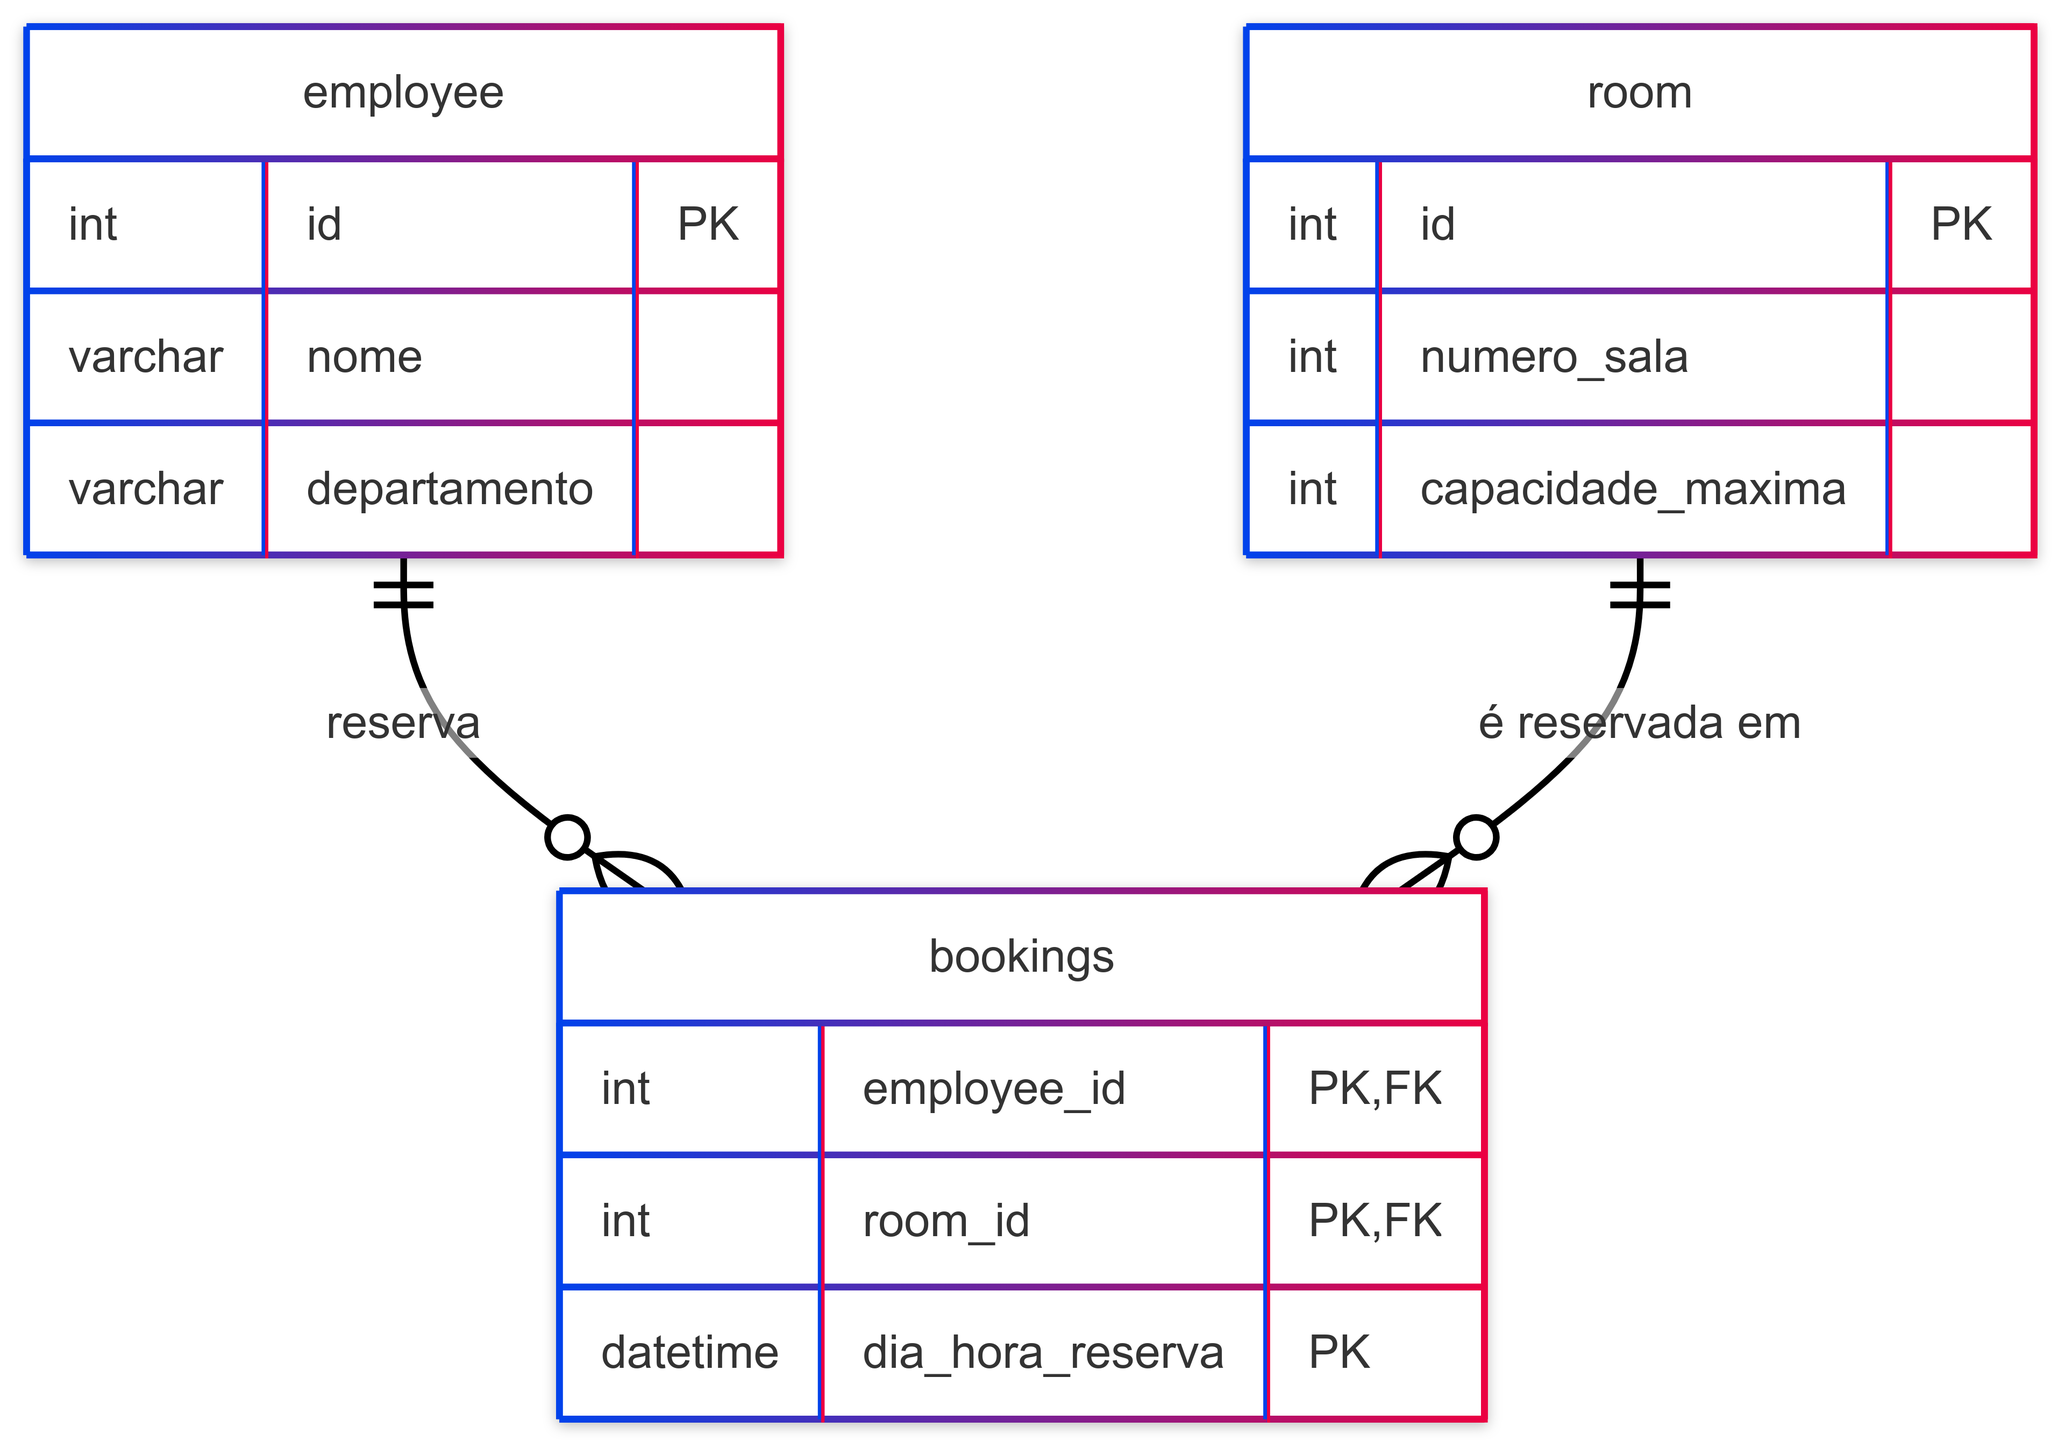
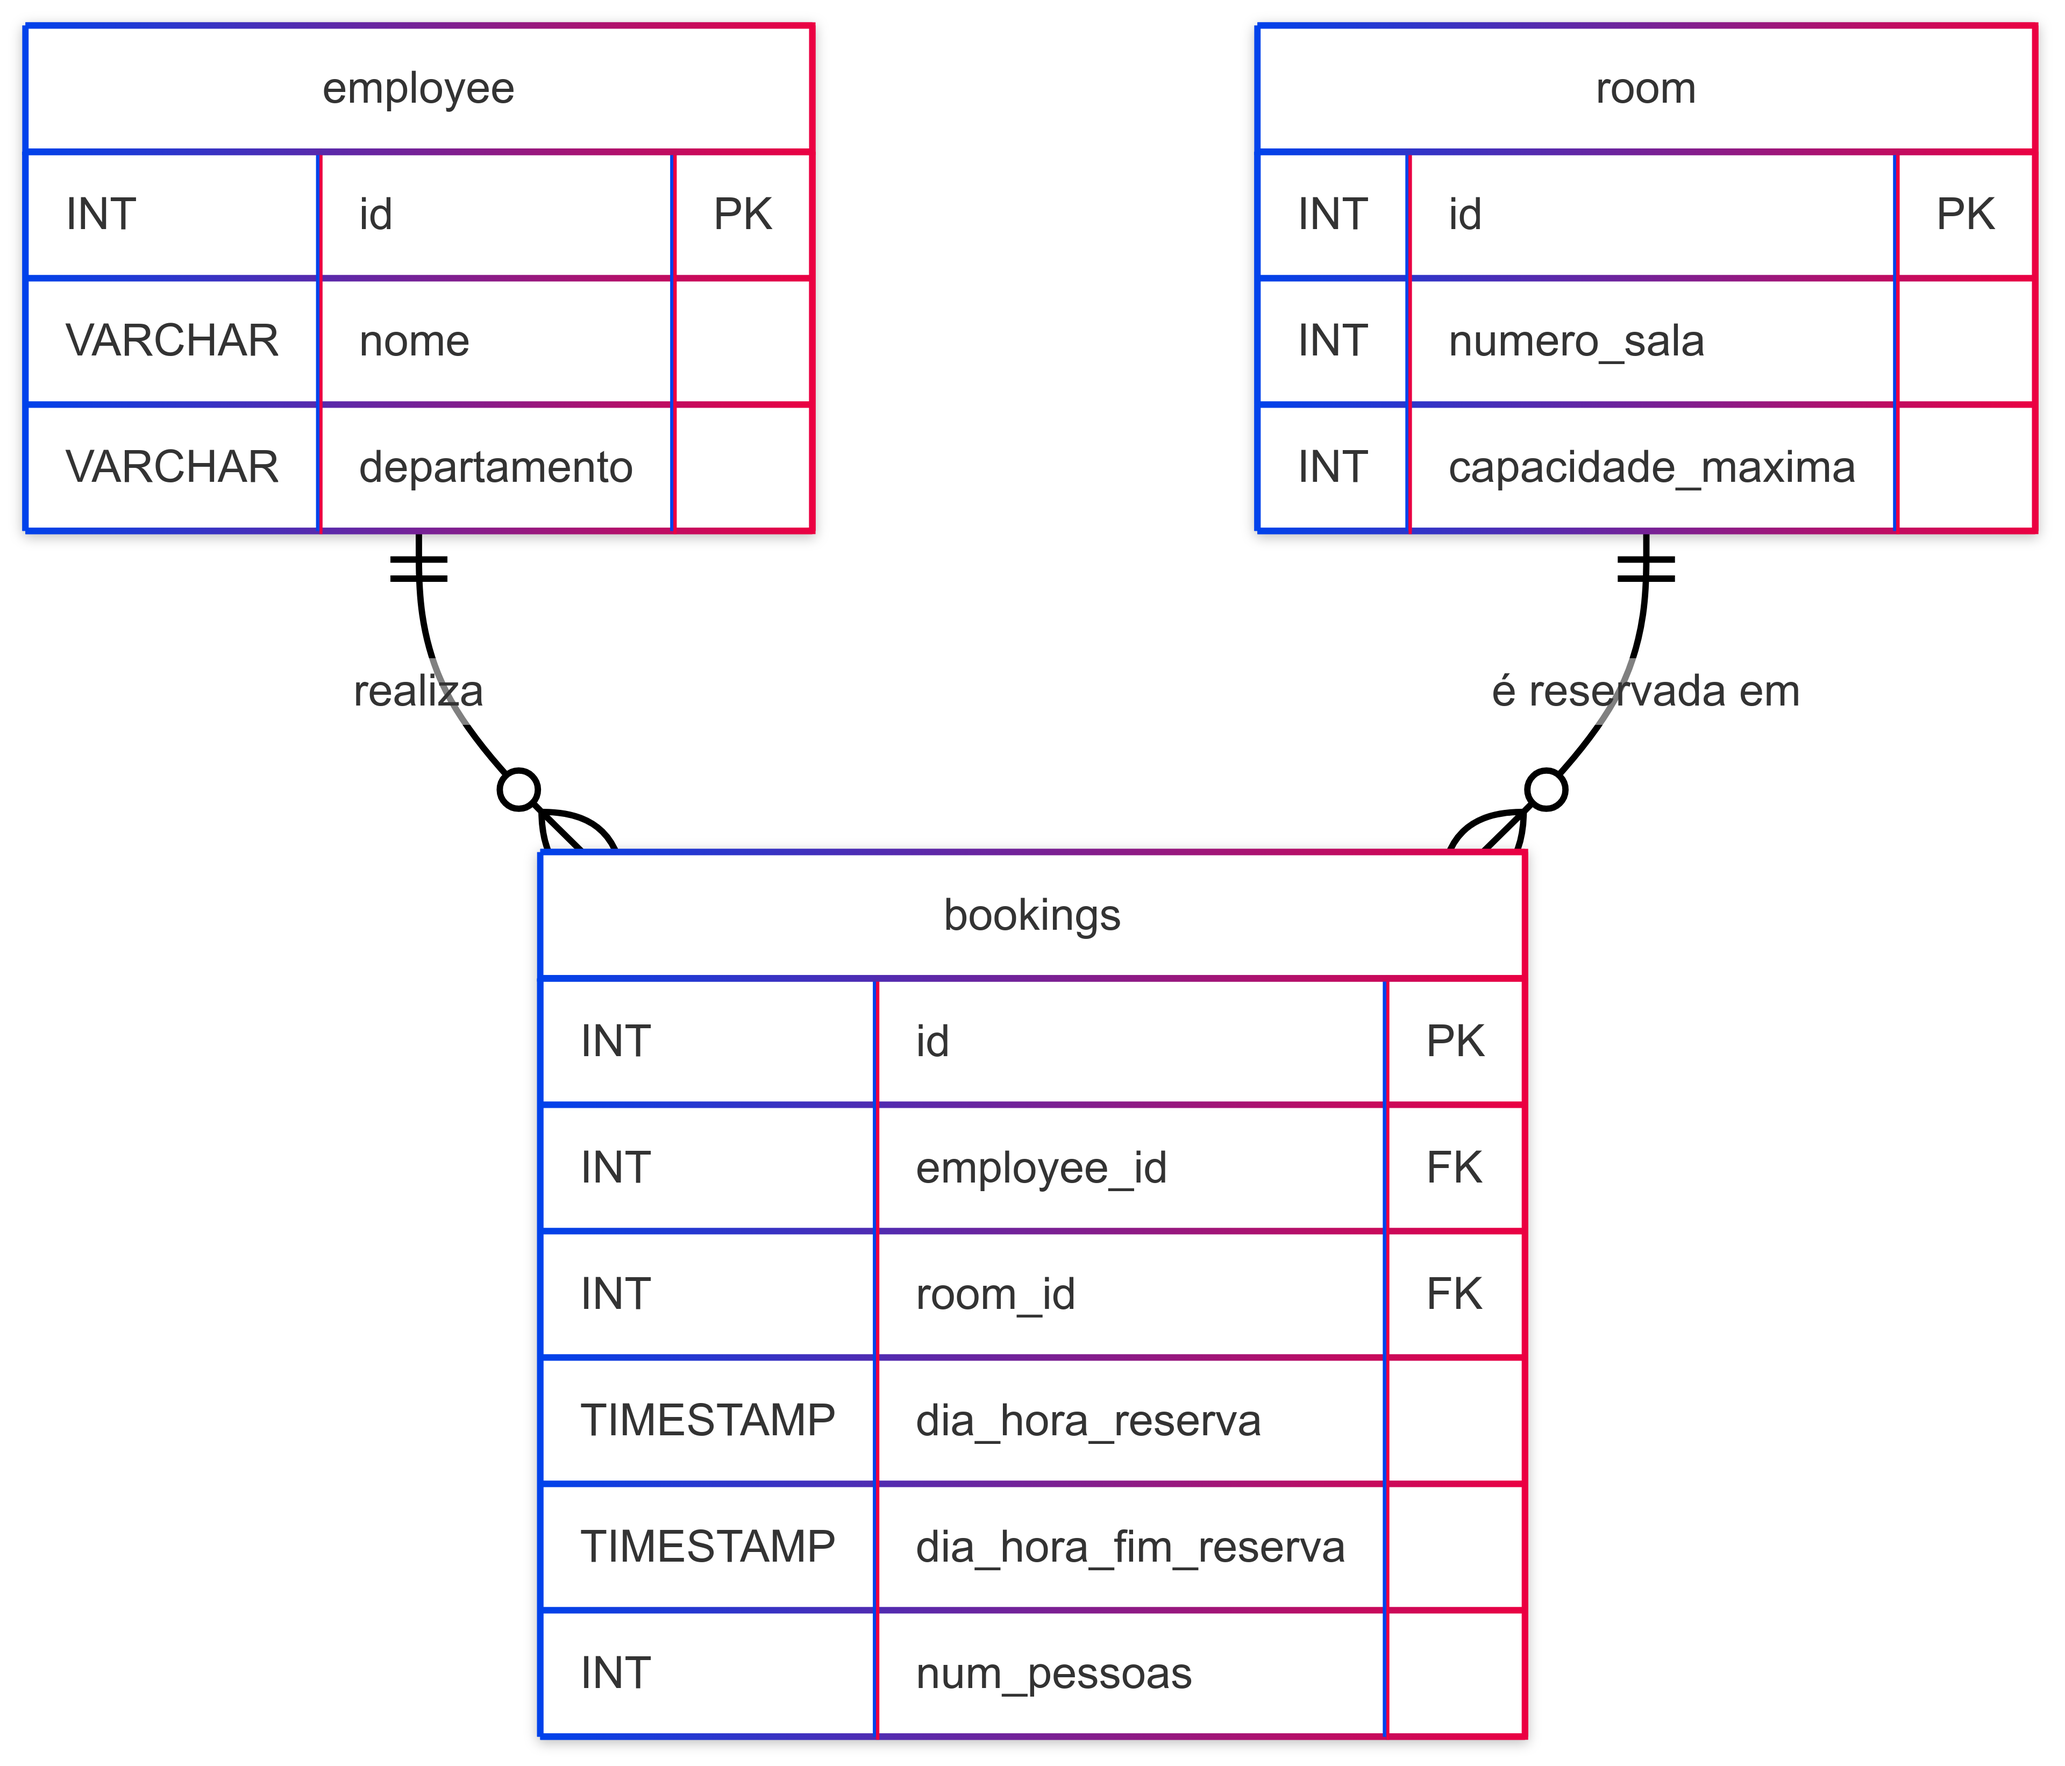
fix: atualiza documentação

Changed region(s): [[0.0, 0.0, 1.0, 0.997]]

diff --git a/README.md b/README.md
@@ -1,151 +1,82 @@
 # Sistema de Reserva de Salas
 
-Este projeto tem como objetivo oferecer uma solução eficiente para a reserva de salas de reunião por colaboradores de uma empresa. A aplicação foi desenvolvida para otimizar a gestão de espaços compartilhados, permitindo aos usuários visualizar a disponibilidade em tempo real, agendar reservas de forma prática e evitar conflitos de uso. Com isso, busca-se resolver problemas comuns relacionados à previsão e ocupação de salas, promovendo um ambiente de trabalho mais organizado e produtivo.
+Este projeto oferece uma solução eficiente para a **reserva de salas de reunião** por colaboradores de uma empresa. A aplicação foi desenvolvida para otimizar a gestão de espaços compartilhados, permitindo aos usuários visualizar a disponibilidade, agendar reservas de forma prática e evitar conflitos de uso. O sistema busca resolver problemas comuns relacionados à previsão e ocupação de salas, promovendo um ambiente de trabalho mais organizado e produtivo, agora com uma **interface visual interativa** acessível via navegador.
 
-## Requisitos
+---
 
-- Node.js (versão 24.0.1)
-- PostgreSQL (versão 17.5)
+## 🚀 Requisitos
 
-## Instalação
+Certifique-se de ter instalado:
 
-1. **Clonar o repositório:**
+* **Node.js**: Versão 20 ou superior.
+* **PostgreSQL**: Versão 12 ou superior.
 
-```bash
-git clone https://github.com/Alexsander-Barbosa/Projeto-Individual.git
-```
+---
 
-2. **Instalar as dependências:**
+## 🛠 Instalação e Configuração
 
-```bash
-npm install
-```
+1.  **Clonar o repositório:**
 
-3. **Configurar o arquivo `.env`:**
+    ```bash
+    git clone [https://github.com/Alexsander-Barbosa/Projeto-Individual.git](https://github.com/Alexsander-Barbosa/Projeto-Individual.git)
+    cd Projeto-Individual
+    ```
 
-Renomeie o arquivo `.env.example` para `.env` e configure as variáveis de ambiente necessárias, como as configurações do banco de dados PostgreSQL.
+2.  **Entrar na pasta raiz do projeto (agora `src/`):**
 
-### Exemplo de `.env`
+    Todos os comandos `npm` e `node` devem ser executados de dentro da pasta `src/`.
 
-```env
-DB_HOST=localhost
-DB_PORT=5432
-DB_NAME=nome_do_banco
-DB_USER=usuario
-DB_PASSWORD=senha
-PORT=3000
-```
+    ```bash
+    cd src/
+    ```
 
+3.  **Instalar as dependências:**
 
-## Configuração do Banco de Dados
+    ```bash
+    npm install
+    ```
 
-1. **Criar banco de dados:**
+4.  **Configurar o arquivo `.env`:**
 
-Crie um banco de dados PostgreSQL com o nome especificado no seu arquivo `.env`.
+    Na **raiz do seu projeto** (`Projeto-Individual/`), renomeie o arquivo `.env.example` para `.env` e configure as variáveis de ambiente para a conexão com seu banco de dados PostgreSQL.
 
-2. **Executar o script SQL de inicialização:**
+    ### Exemplo de `.env`
 
-```bash
-npm run migration
-```
+    ```env
+    DB_HOST=localhost
+    DB_PORT=5432
+    DB_NAME=nome_do_seu_banco
+    DB_USER=seu_usuario_do_banco
+    DB_PASSWORD=sua_senha_do_banco
+    PORT=3000
+    ```
 
-Esse comando executa o script SQL que cria as tabelas `employee`, `room` e `bookings`, além de inserir dados fictícios para testes.
+---
 
-## Funcionalidades
+## 🗄 Configuração do Banco de Dados
 
-* **Padrão MVC:** Estrutura organizada em Model, View e Controller.
-* **PostgreSQL:** Banco de dados relacional utilizado para persistência dos dados.
-* **UUID:** Utilização de UUID como chave primária nas tabelas `employee`, `room` e `bookings`.
-* **Scripts com `nodemon`:** Utilização do `nodemon` para reiniciar automaticamente o servidor após alterações no código.
-* **Testes:** Inclui estrutura básica para testes automatizados.
+1.  **Criar o banco de dados:**
 
-## Arquitetura MVC
+    Crie um banco de dados PostgreSQL com o **nome especificado no seu arquivo `.env`**.
 
-Este projeto segue o padrão MVC:
+2.  **Executar o script SQL de inicialização (migrações):**
 
-- **Model**: Interage diretamente com o banco de dados PostgreSQL.
-- **View**: Neste projeto, representada pelas requisições feitas por clientes HTTP (como Postman).
-- **Controller**: Contém a lógica da aplicação que responde às requisições da View e manipula os Models.
+    Este comando cria as tabelas `employee`, `room` e `bookings` com suas colunas atualizadas, incluindo o horário de fim da reserva.
 
-![Diagrama da Arquitetura MVC](https://github.com/usuario/repositorio/imagens/diagrama-mvc.png)
+    ```bash
+    node migration/runSQLscripts.js
+    ```
+    *(Execute este comando de dentro da pasta `src/`)*
 
-## Testando a API
+---
 
-Você pode usar o Postman ou Insomnia para testar os seguintes endpoints:
+## ▶ Como Rodar o Projeto
 
-### Funcionários (`/api/employees`)
-- `GET /api/employees`: Lista todos os funcionários.
-- `POST /api/employees`: Cria um novo funcionário.
-- `PUT /api/employees/:id`: Atualiza um funcionário.
-- `DELETE /api/employees/:id`: Remove um funcionário.
-
-Exemplo de criação de funcionário (`POST`)
-```json
-{
-  "nome": "Maria Silva",
-  "departamento": "Recursos Humanos"
-}
-```
-Resposta de sucesso (201):
-```json
-{
-  "id": 1,
-  "nome": "Maria Silva",
-  "departamento": "Recursos Humanos"
-}
-```
-
-### Salas (`/api/rooms`)
-- `GET /api/rooms`: Lista todas as salas.
-- `POST /api/rooms`: Cria uma nova sala.
-- `PUT /api/rooms/:id`: Atualiza uma sala.
-- `DELETE /api/rooms/:id`: Remove uma sala.
-
-
-### Reservas (`/api/bookings`)
-- `GET /api/bookings`: Lista todas as reservas.
-- `POST /api/bookings`: Cria uma nova reserva.
-- `PUT /api/bookings/:id`: Atualiza uma reserva.
-- `DELETE /api/bookings/:id`: Remove uma reserva.
-
-## Scripts Disponíveis
-
-* `npm start`: Inicia o servidor Node.js.
-* `npm run dev`: Inicia o servidor com `nodemon`, reiniciando automaticamente após alterações no código.
-* `npm run test`: Executa os testes automatizados.
-* `npm run test:coverage`: Executa os testes e gera um relatório de cobertura de código.
-* `npm run migration`: Executa a criação das tabelas e popula o banco com dados fictícios.
-
-## Estrutura de Diretórios
-
-* **`config/`**: Configurações do banco de dados e outras configurações do projeto.
-* **`controllers/`**: Controladores da aplicação (lógica de negócio).
-* **`models/`**: Modelos da aplicação (definições de dados e interações com o banco de dados).
-* **`routes/`**: Rotas da aplicação.
-* **`tests/`**: Testes automatizados.
-
-## Como Rodar o Projeto
-
-1. Instale as dependências:
+Após a instalação e configuração do banco de dados (passos acima), inicie o servidor:
 
 ```bash
-npm install
-```
-
-2. Configure as variáveis de ambiente no arquivo `.env`
-
-3. Crie o banco de dados no PostgreSQL com o nome definido no `.env`
-
-4. Execute o script de migração:
-
-```bash
-npm run migration
-```
-
-5. Inicie o servidor:
-
-```bash
-npm run dev
-```
-
-A API estará disponível em: `http://localhost:3000/api`
+npm start
+# ou, se você tiver nodemon configurado no package.json
+# npm run dev
+# ou, diretamente (de dentro da pasta src/):
+# node server.js

diff --git a/documentos/wad.md b/documentos/wad.md
@@ -29,9 +29,29 @@ CREATE TABLE IF NOT EXISTS bookings (
   employee_id INTEGER NOT NULL,
   room_id INTEGER NOT NULL,
   dia_hora_reserva TIMESTAMP NOT NULL,
+  dia_hora_fim_reserva TIMESTAMP NOT NULL,
   num_pessoas INTEGER NOT NULL,
   FOREIGN KEY (employee_id) REFERENCES employee(id),
   FOREIGN KEY (room_id) REFERENCES room(id),
-  UNIQUE (employee_id, room_id, dia_hora_reserva)
+  UNIQUE (employee_id, room_id, dia_hora_reserva, dia_hora_fim_reserva)
 );
 ```
+## Prints das Views (Interface do Usuário)
+
+Esta seção mostra as principais telas da aplicação, demonstrando a interação com o sistema e a exibição dos dados.
+
+### 1. Página de Listagem de Reservas (`/bookings`)
+
+  <img src="../assets/listagem-reservas.png" alt="Listagem de Reservas">
+
+### 2. Formulário de Reserva (Criação/Edição - /`bookings/form` ou `/bookings/form/:id`)
+
+  <img src="../assets/criacao-reservas.png" alt="Criação de Reservas">
+
+### 3. Página de Listagem de Funcionários (`/employees`)
+
+  <img src="../assets/listagem-funcionarios.png" alt="Listagem de Funcionários">
+
+### 4. Página de Listagem de Salas (`/rooms`)
+
+  <img src="../assets/listagem-salas.png" alt="Listagem de Salas">
